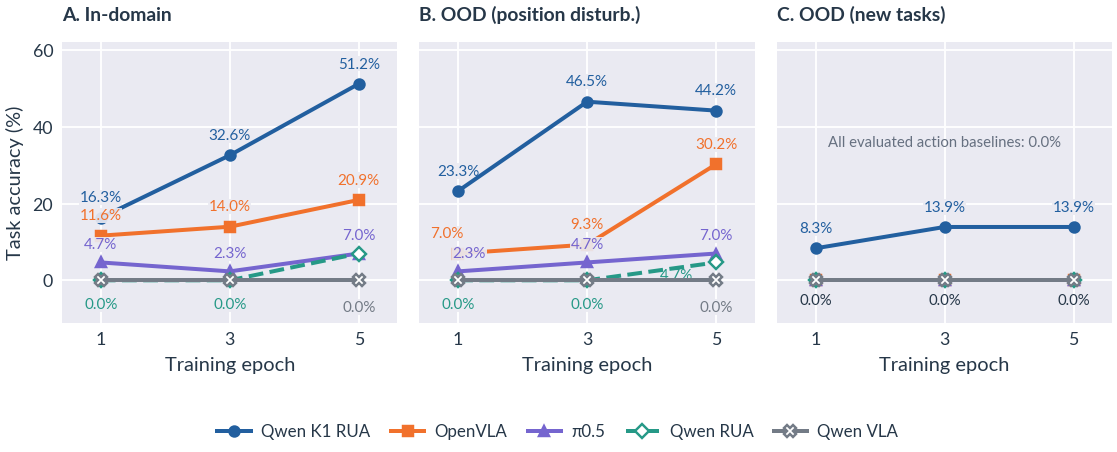
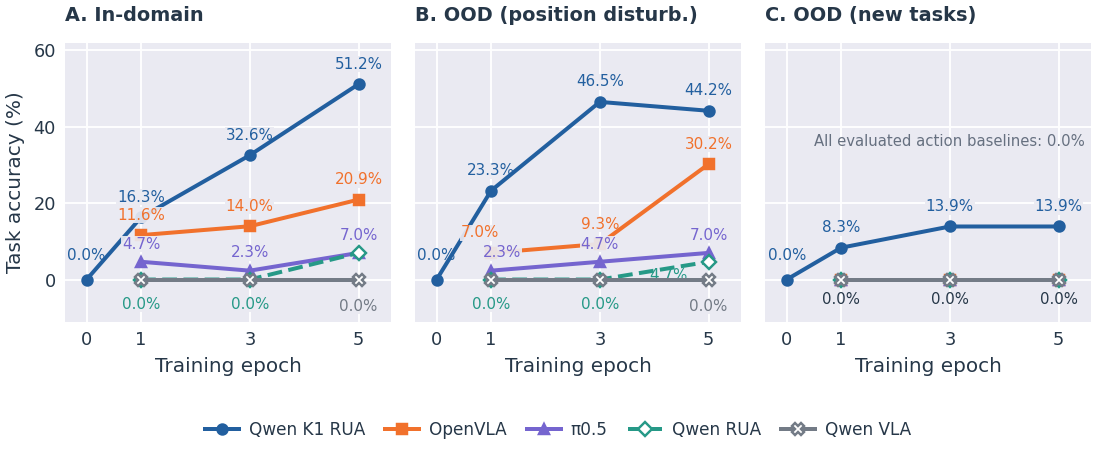
Update paper results and add real-robot demonstration

diff --git a/src/robo_harness/release_audit.py b/src/robo_harness/release_audit.py
@@ -18,11 +18,12 @@ PATTERNS = {
 }
 ALLOWED_SUFFIXES = {".py", ".md", ".toml", ".yaml", ".yml", ".txt", ".example"}
 ALLOWED_NAMES = {"LICENSE", ".gitignore", "MANIFEST.in"}
-# Only reviewed documentation images are allowed, not arbitrary binary artifacts.
+# Only reviewed documentation images and the demo GIF are allowed.
 # Replacing an image requires a new content review and checksum update.
 APPROVED_ASSETS = {
[8 lines of base64/hex data omitted]

diff --git a/docs/results.md b/docs/results.md
@@ -2,9 +2,9 @@
 
 [← README](../README.md)
 
-This page summarizes the LIBERO-Pro and RoboSuite experiments in **Robo-Harness K1: Harnessing Robot-Use Agents via Perception Augmentation**. Values are transcribed from the manuscript's native-success ledger, matched frontier comparison, RoboSuite transfer table, and full checkpoint ledger. They describe the paper's experiments; installing this source release does not rerun or independently reproduce those experiments.
+This page summarizes the updated paper's frontier-model comparison, cross-environment transfer, real-robot experiments, and student training results in **Robo-Harness K1: Harnessing Robot-Use Agents via Perception Augmentation**.
 
-All percentages below measure **native simulator success**. Task completion declared by the language model is not sufficient. Episode recordings, evaluation manifests, training data, and model checkpoints are not included in this repository.
+Simulation results measure **native task success**; real-robot results use operator confirmation and image review. Selected demonstrations accompany the results. Raw episode logs, evaluation manifests, training data, and model checkpoints are supplied separately.
 
 ## LIBERO-Pro frontier evaluation
 
@@ -23,23 +23,31 @@ The evaluation uses Spatial, Object, and Goal, with ten base task indices per ca
 
 The state numbers identify entries in the benchmark's stored initial-state files. They should not be interpreted as arbitrary pseudorandom seeds that necessarily recreate the same scenes. Benchmark conditions overlap with harness development; this sweep is not a wholly held-out test of harness design.
 
-### Matched 18-episode comparison
+### Matched 60-episode comparison
 
-Task indices 0–2 at state 0 are used in each of the six category–variant suites. All three rows below refer to the same task–variant–state configurations.
+All ten task indices at state 0 are used in each of the six category–variant suites: **3 categories × 10 tasks × 2 variants = 60 cases per system**. All four systems use the same configurations.
 
 | Model | Interface | Native successes | Success rate |
 |:---|:---|---:|---:|
-| GPT-6 Astra | RGB-only robot-use interface | 11 / 18 | 61.1% |
-| Gemini 3.7 Flash | k1 | 14 / 18 | 77.8% |
-| GPT-6 Astra | k1 | 16 / 18 | 88.9% |
+| Gemini 3.7 Flash | RGB-only robot-use interface | 10 / 60 | 16.7% |
+| Gemini 3.7 Flash | K1 | 43 / 60 | 71.7% |
+| GPT-6 Astra | RGB-only robot-use interface | 38 / 60 | 63.3% |
+| GPT-6 Astra | K1 | 56 / 60 | 93.3% |
 
-The Astra difference is **5 / 18 = 27.8 percentage points**. Matching initial states does not make the interfaces identical: k1 adds depth-backed perception tools, memory mechanisms, motion primitives, and completion feedback. This comparison does not isolate the effect of any single tool, equalize inference costs, or establish statistical significance on its own. There is no matched Gemini RGB-only row in this comparison.
+K1 improves Gemini by **55.0 percentage points** and Astra by **30.0 points**. The comparison evaluates complete interfaces: K1 adds depth-backed perception tools, memory, motion primitives, and completion feedback.
 
-Gemini's 18 cases are included in the 180-case sweep. The 77.8% and 77.2% figures are therefore different views of overlapping data, not independent replications.
+| System | Spatial · 20 | Object · 20 | Goal · 20 |
+|:---|---:|---:|---:|
+| Gemini RGB-only | 1/20 · 5.0% | 8/20 · 40.0% | 1/20 · 5.0% |
+| Gemini + K1 | 15/20 · 75.0% | 16/20 · 80.0% | 12/20 · 60.0% |
+| Astra RGB-only | 9/20 · 45.0% | 16/20 · 80.0% | 13/20 · 65.0% |
+| Astra + K1 | 18/20 · 90.0% | 20/20 · 100.0% | 18/20 · 90.0% |
+
+Spatial shows the largest gain for both models: **+70 points for Gemini** and **+45 points for Astra**. Gemini's 60 paired cases are included in the 180-case sweep, giving 71.7% on the paired subset and 77.2% across all three states. Hatched Figure 1 bars are published references with their own evaluation protocols.
 
 ### Native completion versus post-release completion
 
-The reported scores use the native success criterion at evaluation time. A separate diagnostic holds the arm, opens the gripper for 20 native frames, and requires success over the final ten frames. Gemini's post-release result is **131 / 180 (72.8%)**, compared with 139 / 180 native successes: 11 native successes lose success and three native failures gain success. Both Astra groups retain their native successes. This diagnostic is separate because opening the gripper changes the state and can affect completion in either direction.
+The reported scores use the native success criterion at evaluation time. A separate diagnostic on the 180 Gemini episodes holds the arm, opens the gripper for 20 native frames, and requires success over the final ten frames. Gemini's post-release result is **131 / 180 (72.8%)**, compared with 139 / 180 native successes: 11 native successes lose success and three native failures gain success. This diagnostic is separate because opening the gripper changes the state and can affect completion in either direction.
 
 ## RoboSuite transfer
 
@@ -62,6 +70,64 @@ Each evaluated task–arm combination has **five reset configurations × four in
 “—” means not evaluated, not a failed episode. Pooling the common four tasks across all three arms gives **212 / 240 (88.3%)**. The 90.0% value is Panda's shared-task result, not the pooled three-arm result.
 
 Published CaP-Agent0 and RATs results discussed in the paper are contextual references, not matched reruns. Differences in trial counts, observations, controllers, and execution budgets prevent treating them as a controlled head-to-head comparison. They are not combined with the local scores above.
+
+## RoboTwin and RoboCasa transfer
+
+Gemini 3.7 Flash uses K1 without target-environment model fine-tuning. These results extend the evaluation to Aloha AgileX dual arms in SAPIEN (RoboTwin) and PandaOmron mobile manipulation in MuJoCo (RoboCasa).
+
+### RoboTwin
+
+Ten tasks are evaluated under Easy and Hard conditions. Hard changes clutter, lighting, textures, and table height. After initialization-quality filtering, 182 episodes remain.
+
+| Task | Easy | Hard |
+|:---|---:|---:|
+| Grab Roller | 8/10 · 80.0% | 9/10 · 90.0% |
+| Handover Mic | 2/10 · 20.0% | 0/10 · 0.0% |
+| Lift Pot | 2/10 · 20.0% | 2/10 · 20.0% |
+| Move Can Pot | 4/8 · 50.0% | 5/8 · 62.5% |
+| Place Dual Shoes | 0/8 · 0.0% | 0/6 · 0.0% |
+| Place Phone Stand | 2/10 · 20.0% | 0/8 · 0.0% |
+| Put Bottles Dustbin | 0/10 · 0.0% | 0/8 · 0.0% |
+| Put Object Cabinet | 4/10 · 40.0% | 0/8 · 0.0% |
+| Stack Blocks Two | 6/10 · 60.0% | 7/8 · 87.5% |
+| Stack Bowls Two | 3/10 · 30.0% | 2/10 · 20.0% |
+| **Episode-micro total** | **31/96 · 32.3%** | **25/86 · 29.1%** |
+| **Task-macro average** | **32.0%** | **28.0%** |
+
+The paper reports the task-macro average, weighting each task equally. Published RDT and π0 results, recomputed over these ten tasks from RoboTwin 2.0's Appendix K, are **43.1% / 15.9%** and **64.1% / 23.0%** on Easy / Hard. Those policies use task-specific training and their own evaluation protocols; these are published references. K1's strongest tasks are roller manipulation and block stacking, while handover and cluttered placement remain challenging.
+
+### RoboCasa
+
+The interface supports arm and gripper control, planar base translation, base rotation, and torso height. Each task uses ten distinct initial states.
+
+| Category | Tasks | Successes | Success rate |
+|:---|---:|---:|---:|
+| Pick-and-place | 8 | 18/80 | 22.5% |
+| Doors and drawers | 6 | 14/60 | 23.3% |
+| Stove control | 2 | 4/20 | 20.0% |
+| Faucet control | 3 | 10/30 | 33.3% |
+| Microwave operation | 2 | 5/20 | 25.0% |
+| Coffee preparation | 3 | 2/30 | 6.7% |
+| **Overall** | **24** | **53/240** | **22.1%** |
+
+Counter-to-sink placement reaches 80% and drawer closing reaches 60%. Microwave activation and coffee-machine button pressing remain unsolved in this evaluation, highlighting the difficulty of precise appliance contact.
+
+## Real-robot manipulation
+
+The physical setup uses a Piper arm, a parallel-jaw gripper, and two external RGB-D cameras. Both methods request Gemini 3.7 Flash. The Clean baseline uses RGB observations, measured arm pose, and four tools: `capture_scene`, `move`, `hold`, and `finish`. K1 adds perceptual tools and structured history with the same robot-control and IK adapters.
+
+| Task | Clean success | K1 success | Clean milestone | K1 milestone |
+|:---|---:|---:|---:|---:|
+| Can into bowl | 1/3 · 33.3% | **2/3 · 66.7%** | 1.00 | **1.67** |
+| Bowl onto plate | 0/3 · 0.0% | **3/3 · 100.0%** | 0.00 | **2.00** |
+| Two-object sorting | 0/3 · 0.0% | **3/3 · 100.0%** | 0.50 | **2.00** |
+| **Overall** | **1/9 · 11.1%** | **8/9 · 88.9%** | — | — |
+
+Outcomes use operator confirmation and image review. Milestones are manually assigned on a 0–2 scale, covering approach, grasp-and-lift, transport, and stable placement. Can placement uses containment. The baseline has a 50-call limit; K1 uses 50 for can and bowl placement. The archived sorting demonstration extends to 100 calls and finishes at 88. One bowl trial includes external completion review and gripper-unit guidance.
+
+The [real-robot demo](https://robo-harness.github.io/k1/#real-robot) shows the single-segment can-placement success. The GIF includes all 33 recorded decisions with task query, current views, separate observation/result frame numbers, and tool calls. It is a decision-snapshot presentation; API waiting time is omitted.
+
+The experiment requested Gemini 3.7 Flash; the archived provider response for this demonstration is labeled `gemini-3.8-flash`, which is preserved in the video overlay.
 
 ## Learning from tool-use trajectories
 
@@ -89,6 +155,7 @@ Counts below preserve the full denominators. All four listed policies have compl
 
 | Model / policy | Epoch | A · 43 cases | B · 43 cases | C · 36 cases |
 |:---|---:|---:|---:|---:|
+| Qwen3.5-9B + K1 (before fine-tuning) | 0 | 0 / 43 · 0.0% | 0 / 43 · 0.0% | 0 / 36 · 0.0% |
 | Qwen3.5-9B + k1 | 1 | 7 / 43 · 16.3% | 10 / 43 · 23.3% | 3 / 36 · 8.3% |
 | Qwen3.5-9B + k1 | 3 | 14 / 43 · 32.6% | **20 / 43 · 46.5%** | **5 / 36 · 13.9%** |
 | **Qwen3.5-9B + k1** | **5** | **22 / 43 · 51.2%** | **19 / 43 · 44.2%** | **5 / 36 · 13.9%** |
@@ -102,10 +169,24 @@ Counts below preserve the full denominators. All four listed policies have compl
 | π0.5 | 3 | 1 / 43 · 2.3% | 2 / 43 · 4.7% | 0 / 36 · 0.0% |
 | π0.5 | 5 | 3 / 43 · 7.0% | 3 / 43 · 7.0% | 0 / 36 · 0.0% |
 
-The README plots checkpoint learning curves, rather than selecting each model's best epoch independently. K1's B result peaks at epoch 3, so improvement is not monotonic. There is no matched untrained-model row on this entire 122-case evaluation, and the five C successes cover four held-out conditions, not five new skills.
+The README plots checkpoint learning curves. K1's B result peaks at epoch 3. The base Qwen3.5-9B model was subsequently evaluated on the same 122 cases and scores zero on all three splits. The five C successes cover four held-out conditions.
 
 The paper additionally evaluates a custom Qwen continuous-action regression baseline. Its RGB-D epoch-5 run completes all 122 cases with zero successes. Some RGB-only groups are incomplete; unrun cases are not counted as failures. This is a result for that particular training recipe, not evidence that continuous-action policies in general cannot learn these tasks.
 
-### What is provided here
+## Mixed-environment post-training
+
+The LIBERO-trained Qwen3.5-9B agent continues from its epoch-3 checkpoint for three additional LoRA epochs on **316 successful trajectories**: 107 LIBERO-Pro, 142 RoboSuite, 32 RoboCasa, and 35 RoboTwin. The objective remains next-tool-call prediction.
+
+| Evaluation | Before | After | Gain |
+|:---|---:|---:|---:|
+| LIBERO-Pro B: new initial states | 18/42 · 42.9% | **22/42 · 52.4%** | **+9.5 pp** |
+| LIBERO-Pro C: held-out task conditions | 4/36 · 11.1% | **10/36 · 27.8%** | **+16.7 pp** |
+| RoboSuite | 17/60 · 28.3% | **30/60 · 50.0%** | **+21.7 pp** |
+| RoboCasa | 4/48 · 8.3% | 2/48 · 4.2% | −4.2 pp |
+| RoboTwin | 1/39 · 2.6% | 1/40 · 2.5% | — |
+
+The before/after experiment uses fresh evaluations of the starting checkpoint with the same interface within each environment. Its starting scores are separate from the earlier learning curves. Diverse manipulation experience improves source-domain generalization and RoboSuite performance, while RoboCasa and RoboTwin remain difficult for the student.
+
+## What is provided here
 
 This repository provides the k1 harness and [tool-use data preparation, LoRA training, and serving interfaces](training.md). It does not bundle the teacher episodes, student weights, VLA baseline implementations, or benchmark evaluation manifests. Reproducing the tables requires those experiment inputs and the paper's full settings; a smoke test only checks basic integration.

diff --git a/README.md b/README.md
@@ -10,6 +10,7 @@
 
 <p align="center">
   <a href="https://arxiv.org/abs/2609.29389">Paper (arXiv)</a> ·
+  <a href="https://robo-harness.github.io/k1/">Project page</a> ·
   <a href="#results">Results</a> ·
   <a href="#how-it-works">How it works</a> ·
   <a href="#quick-start">Quick start</a> ·
@@ -22,24 +23,32 @@
 
 **Robo-Harness K1** turns a vision-language model into a robot-use agent: the model observes the scene, requests measurements, chooses an action, and checks what actually happened. Rather than asking the model to infer metric geometry from RGB alone, K1 exposes calibrated perception and robot control through a common tool interface.
 
-This release supports **LIBERO-Pro** and **RoboSuite**, with optional interfaces for distilling successful tool-use trajectories into a smaller VLM. It contains code, configuration templates, documentation, selected paper illustrations, and synthetic tests—not datasets, model weights, episode recordings, credentials, or third-party simulator source code.
+This release supports **LIBERO-Pro** and **RoboSuite**, with optional interfaces for distilling successful tool-use trajectories into a smaller VLM. It contains code, configuration templates, documentation, selected paper illustrations, a real-robot demonstration GIF, and synthetic tests. Datasets, model weights, raw episode logs, credentials, and third-party simulator source code are supplied separately.
 
 ## News and updates
 
+- **2026-11-23:** Updated Figure 1 to the **60-case paired comparison**, including Gemini RGB-only; added real-robot results and a demonstration GIF, RoboTwin and RoboCasa transfer results, and mixed-environment post-training results.
 - **2026-11-09 · v1.1:** Updated the shared harness for cross-environment and cross-embodiment use, including single- and dual-arm control, more reliable perception references, gripper monitoring, physical-state image history, and bounded output-truncation recovery. Environment integration work now covers **LIBERO-Pro, RoboSuite, RoboCasa, RoboTwin, RoboDojo, and RoboLab**. LIBERO-Pro and RoboSuite adapters are included in this repository; the other four adapter integrations are pending public release. See the [upgrade guide](docs/releases/v1.1.md).
 - **v1.0 archive:** The previous main branch is preserved at [v1.0](https://github.com/Robo-Harness/k1/tree/v1.0). Use that snapshot for the original public implementation.
 
 ## Results
 
-Figures from the paper. Accuracy uses the native simulator success criterion. See [evaluation details](docs/results.md) for protocols and comparison scope.
+Figures and results from the updated paper. Simulation accuracy uses native task criteria; real-robot outcomes use operator confirmation and image review. See [evaluation details](docs/results.md) for the settings.
 
 ### LIBERO-Pro
 
 <p align="center">
-  <img src="assets/frontier-results.png" width="1000" alt="LIBERO-Pro accuracy: Robo-Harness K1 with GPT-6 Astra 88.9%, with Gemini 3.7 Flash 77.8%, and RGB-only GPT-6 Astra 61.1%; published references shown separately">
+  <img src="assets/frontier-results.png" width="1000" alt="LIBERO-Pro on 60 matched cases: GPT-6 Astra with K1 93.3%, Gemini 3.7 Flash with K1 71.7%, RGB-only Astra 63.3%, and RGB-only Gemini 16.7%; hatched bars show published references">
 </p>
 
-The top three rows use matched task configurations. Hatched bars are published references with different evaluation protocols, not matched reruns. Gemini + K1 achieves **77.2%** on the full evaluation; the figure shows its matched-subset result.
+All four Gemini/Astra configurations use the same **60 task–variant–state combinations**: Spatial, Object, and Goal, ten tasks each, with `swap` and `task` variants at state 0.
+
+| Model | RGB-only | K1 | Gain |
+|:---|---:|---:|---:|
+| Gemini 3.7 Flash | 10/60 · 16.7% | **43/60 · 71.7%** | **+55.0 pp** |
+| GPT-6 Astra | 38/60 · 63.3% | **56/60 · 93.3%** | **+30.0 pp** |
+
+Hatched bars are published references with their own evaluation protocols. Gemini + K1 achieves **139/180 (77.2%)** on the full three-state sweep, which includes these 60 cases. This is a comparison of complete agent interfaces; K1 adds perception, memory, motion tools, and completion feedback.
 
 ### RoboSuite
 
@@ -49,13 +58,46 @@ The top three rows use matched task configurations. Hatched bars are published r
 
 Gemini + K1 transfers without target-environment fine-tuning: **90.0%** on Panda, **88.8%** on UR5e, and **86.2%** on IIWA across the shared tasks. All arms use PandaGripper. [Transfer settings →](docs/results.md#robosuite-transfer)
 
+### RoboTwin and RoboCasa
+
+Gemini + K1 also transfers to **Aloha AgileX dual arms in RoboTwin** and the **PandaOmron mobile manipulator in RoboCasa**, without target-environment model fine-tuning.
+
+| Environment | Evaluation | Success |
+|:---|:---|---:|
+| RoboTwin Easy | 10 tasks, task-macro average | **32.0%** |
+| RoboTwin Hard | Same 10 tasks with randomized conditions | **28.0%** |
+| RoboCasa | 24 kitchen tasks × 10 initial states | **53/240 · 22.1%** |
+
+RoboTwin tests coordinated manipulation under changes in lighting, textures, clutter, and table height. RoboCasa extends the interface to base motion and torso height. [Task coverage and results →](docs/results.md#robotwin-and-robocasa-transfer)
+
+### Real-robot manipulation
+
+A physical **Piper arm** uses two external RGB-D cameras to perform can placement, bowl placement, and two-object sorting. Each method has three concluded trials per task.
+
+<p align="center">
+  <a href="https://robo-harness.github.io/k1/#real-robot"><img src="assets/real-robot-can-into-bowl.gif" width="960" alt="Successful physical Piper trial placing a cola can into a red bowl, with task query, current camera views, frame numbers, and tool calls"></a>
+</p>
+
+<p align="center"><em>Can into bowl: all 33 recorded decisions, with current-view overlays and tool results. Decision snapshots; API waiting time omitted. <a href="https://robo-harness.github.io/k1/#real-robot">Watch the MP4</a>.</em></p>
+
+| Task | Clean baseline | K1 |
+|:---|---:|---:|
+| Can into bowl | 1/3 · 33.3% | **2/3 · 66.7%** |
+| Bowl onto plate | 0/3 · 0.0% | **3/3 · 100.0%** |
+| Two-object sorting | 0/3 · 0.0% | **3/3 · 100.0%** |
+| **Overall** | **1/9 · 11.1%** | **8/9 · 88.9%** |
+
+Both methods request Gemini 3.7 Flash and share the Piper control adapter. Outcomes are manually assessed. [Scoring and execution settings →](docs/results.md#real-robot-manipulation)
+
 ### Agentic post-training
 
 <p align="center">
   <img src="assets/learning-curves.png" width="1000" alt="Learning curves comparing Qwen with K1, RGB-only Qwen, OpenVLA, π0.5, and Qwen VLA on in-domain, new-state, and held-out-condition evaluations">
 </p>
 
-Models share the same source demonstration pool. B is the new-state development set; C contains fine-tuning-held-out task conditions, not necessarily distinct new skills. [Split definitions →](docs/results.md#learning-from-tool-use-trajectories)
+From **107 teacher episodes**, Qwen3.5-9B + K1 reaches **51.2% / 44.2% / 13.9%** on splits A / B / C at epoch 5; the untrained model scores **0%** on all three. B tests new initial states and C tests held-out task conditions. [Split definitions →](docs/results.md#learning-from-tool-use-trajectories)
+
+Continued training on **316 trajectories across four environments** improves LIBERO-Pro B from **42.9% to 52.4%**, C from **11.1% to 27.8%**, and RoboSuite from **28.3% to 50.0%** in a separate before/after evaluation. [Mixed-environment post-training →](docs/results.md#mixed-environment-post-training)
 
 ## How it works
 
@@ -135,7 +177,7 @@ ruff check src tests
 robo-harness-audit .
 ```
 
-The audit flags generated files and metadata as well as likely secrets, private paths and unexpected binary artifacts. Only the explicitly approved, checksum-pinned README images are allowed as binary assets. Run it on a clean source export without `.git` or caches. It is a heuristic check, not a guarantee that arbitrary generated logs are safe to publish.
+The audit flags generated files and metadata as well as likely secrets, private paths and unexpected binary artifacts. Only the explicitly approved, checksum-pinned documentation images and demonstration GIF are allowed as binary assets. Run it on a clean source export without `.git` or caches. It is a heuristic check, not a guarantee that arbitrary generated logs are safe to publish.
 
 Unit tests use synthetic observations and mocked API responses. Passing them does not establish benchmark success rates, trainability of every model release or compatibility with arbitrary simulator versions. Benchmark results require explicit end-to-end evaluation with fixed tasks, initial states, budgets and native success checks.
 
